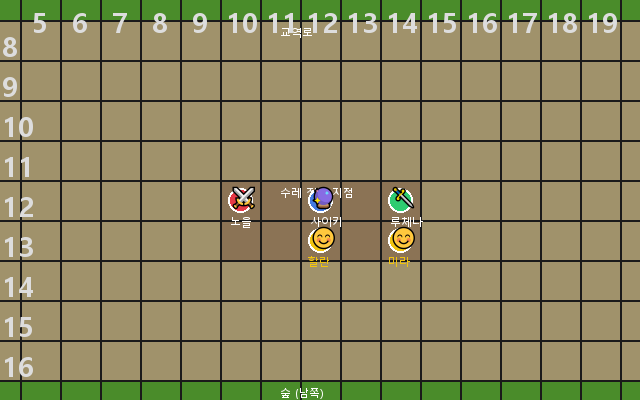
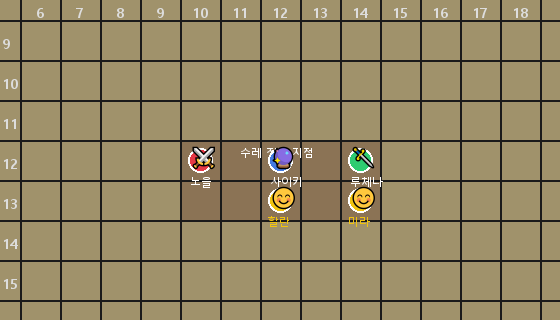
fix: 미니맵 확대(radius 7x4) + 좌표 폰트 14px Bold

diff --git a/map_generator.py b/map_generator.py
@@ -267,8 +267,8 @@ class MapGenerator:
         avg_y = sum(p[1] for p in positions) / len(positions)
 
         # 주변 반경 (타일 단위) — 가로세로 다르게
-        radius_x = 8
-        radius_y = 5  # 세로 2칸 축소
+        radius_x = 7
+        radius_y = 4
         margin_left = 22
         margin_top = 16
 
@@ -302,7 +302,7 @@ class MapGenerator:
         ] + font_paths_global
         for fp in bold_paths:
             try:
-                coord_font = ImageFont.truetype(fp, 28)
+                coord_font = ImageFont.truetype(fp, 14)
                 break
             except (OSError, IOError):
                 continue
@@ -317,16 +317,16 @@ class MapGenerator:
         for i in range(tile_start_x, tile_end_x):
             tile_center_x = (i * self.tile_size + margin_left + self.tile_size // 2) - left
             text = str(i)
-            tx = tile_center_x - 8 if i < 10 else tile_center_x - 14
-            if 0 <= tx < cropped.width - 20:
+            tx = tile_center_x - 4 if i < 10 else tile_center_x - 8
+            if 0 <= tx < cropped.width - 10:
                 draw_mini.text((tx, 2), text, fill="#dddddd", font=coord_font)
 
         # 세로 좌표 (좌측) — 타일 중앙에 배치
         for i in range(tile_start_y, tile_end_y):
             tile_center_y = (i * self.tile_size + margin_top + self.tile_size // 2) - top
             text = str(i)
-            ty = tile_center_y - 14
-            if 0 <= ty < cropped.height - 20:
+            ty = tile_center_y - 7
+            if 0 <= ty < cropped.height - 10:
                 draw_mini.text((2, ty), text, fill="#dddddd", font=coord_font)
 
         mini_path = os.path.join(self.base_dir, "static", "map_mini.png")
